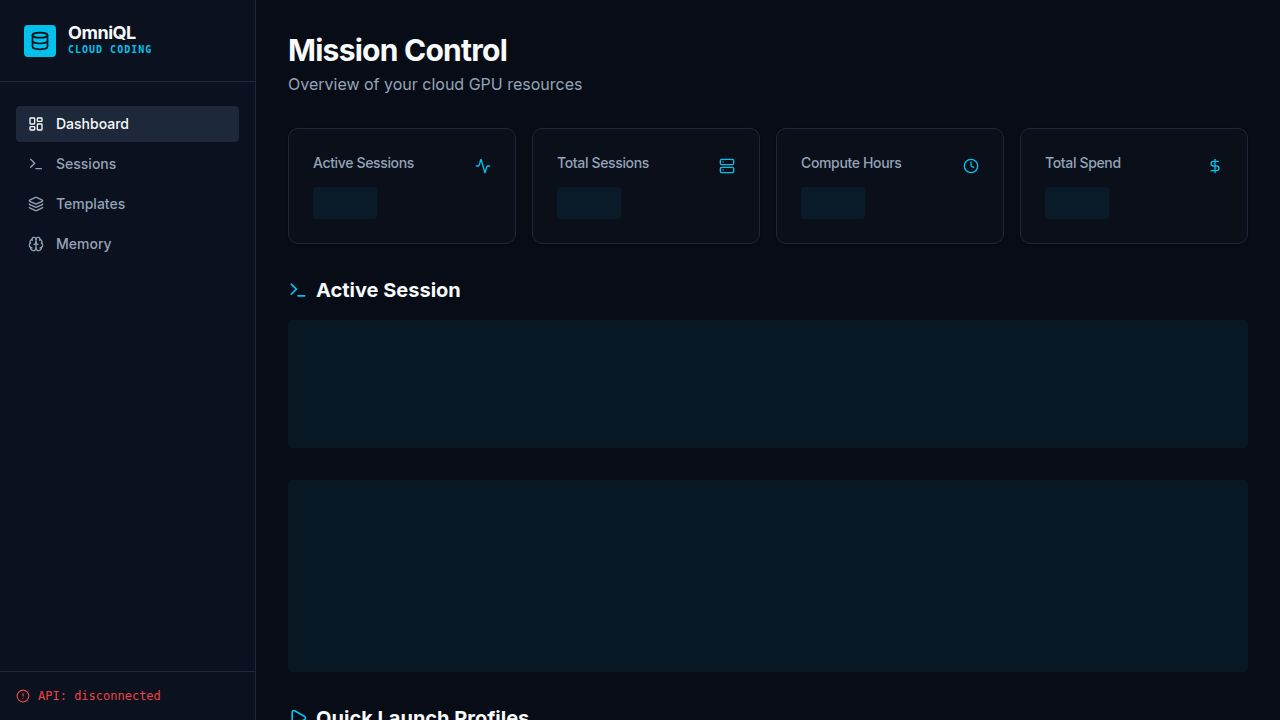
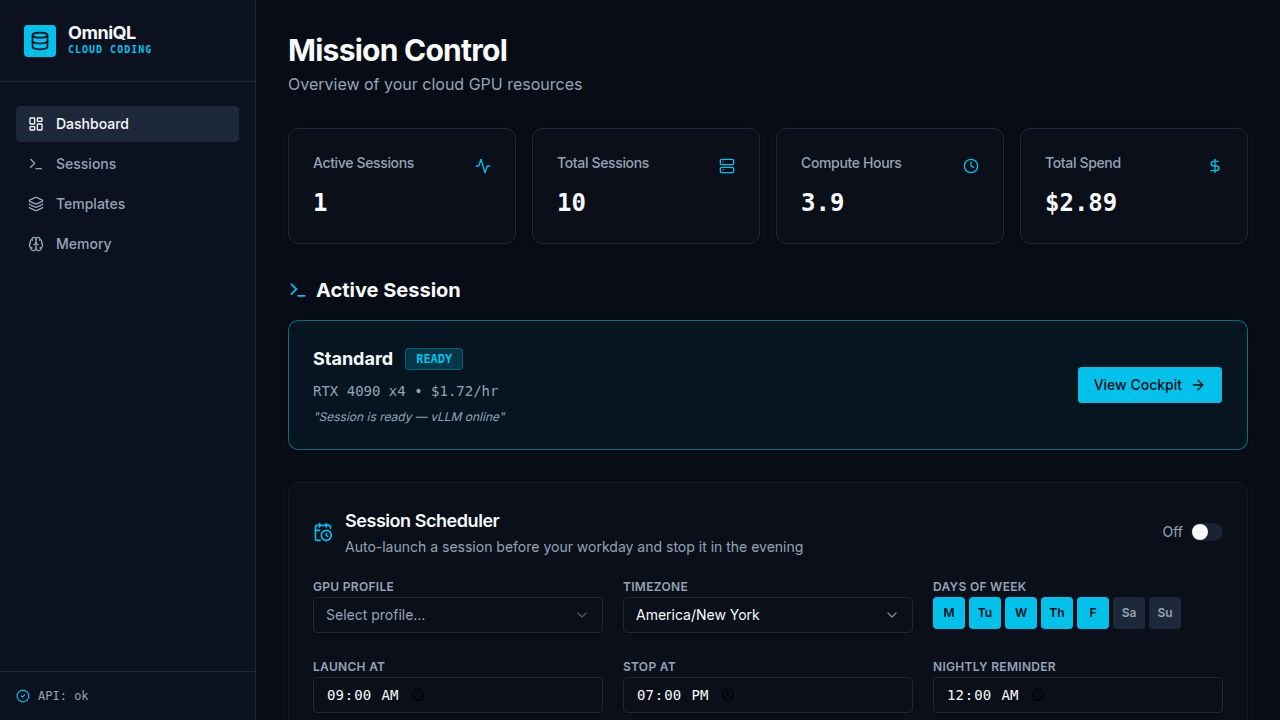
feat: add SSH tunnel copy button for VPN users (task #35)
Added a "SSH Tunnel (VPN-friendly)" section to the Hardware & Access card
on the Cockpit (session detail) page. The section appears whenever an
instance has an sshHost, directly below the existing plain SSH command.

Changes in artifacts/dashboard/src/pages/sessions/[id].tsx:
- Added `tunnelCopied` useState(false) inside SessionDetail
- Added a new conditional block after the existing SSH command block:
  - Displays the full tunnel command as a styled <code> block:
    ssh -p {sshPort} -L 8080:localhost:8080 root@{sshHost}
  - "Copy tunnel command" button wired to navigator.clipboard.writeText
    with proper .then() handler so "Copied!" only appears on success
    (consistent with clipboard patterns elsewhere in the file)
  - Button switches to Check icon + "Copied!" for 2 seconds after a
    successful copy, then resets
  - Hint text: "After running, open http://localhost:8080 in your browser."
- All necessary imports (Copy, Check, Button, useState) were already
  present — no new imports needed

No backend changes. Purely frontend using existing sshHost/sshPort fields.

Code review fix applied: clipboard feedback now correctly gates on
promise resolution rather than firing immediately.

Follow-up tasks proposed:
- #36: Let users customize the local port for the SSH tunnel
- #37: Add a tunnel command for the LLM proxy port too

Replit-Task-Id: 92c6b88a-ff1d-4afb-ad63-11d0267fd903

diff --git a/artifacts/dashboard/src/pages/sessions/[id].tsx b/artifacts/dashboard/src/pages/sessions/[id].tsx
@@ -505,6 +505,7 @@ export default function SessionDetail() {
   const lastBootMsgRef = useRef<string>("");
   const [copiedField, setCopiedField] = useState<string | null>(null);
   const [revealedPasswords, setRevealedPasswords] = useState<Set<string>>(new Set());
+  const [tunnelCopied, setTunnelCopied] = useState(false);
 
   const copyToClipboard = (text: string, fieldId: string) => {
     navigator.clipboard.writeText(text).then(() => {
@@ -913,6 +914,36 @@ export default function SessionDetail() {
                     <code className="text-xs text-primary bg-secondary/50 px-2 py-1 rounded block break-all">
                       ssh -p {session.sshPort} root@{session.sshHost}
                     </code>
+                  </div>
+                )}
+                {session.sshHost && (
+                  <div className="border-t border-border/40 pt-3 space-y-2">
+                    <span className="text-muted-foreground block mb-1">SSH Tunnel (VPN-friendly)</span>
+                    <code className="text-xs text-primary bg-secondary/50 px-2 py-1 rounded block break-all">
+                      ssh -p {session.sshPort} -L 8080:localhost:8080 root@{session.sshHost}
+                    </code>
+                    <Button
+                      size="sm"
+                      variant="outline"
+                      className="w-full text-xs h-7"
+                      onClick={() => {
+                        navigator.clipboard.writeText(`ssh -p ${session.sshPort} -L 8080:localhost:8080 root@${session.sshHost}`).then(() => {
+                          setTunnelCopied(true);
+                          setTimeout(() => setTunnelCopied(false), 2000);
+                        });
+                      }}
+                    >
+                      {tunnelCopied ? (
+                        <><Check className="w-3 h-3 mr-1" />Copied!</>
+                      ) : (
+                        <><Copy className="w-3 h-3 mr-1" />Copy tunnel command</>
+                      )}
+                    </Button>
+                    <p className="text-xs text-muted-foreground">
+                      After running, open{" "}
+                      <span className="font-mono text-primary">http://localhost:8080</span>{" "}
+                      in your browser.
+                    </p>
                   </div>
                 )}
               </CardContent>